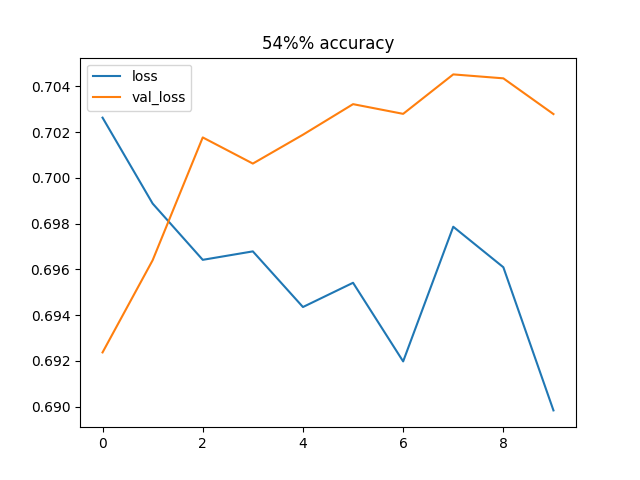
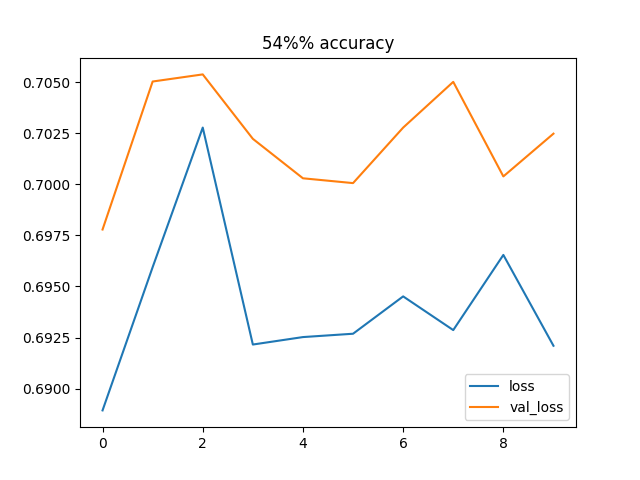
adding some stuff

diff --git a/src/utils.py b/src/utils.py
@@ -3,14 +3,27 @@ import numpy as np
 from typing import Tuple
 import keras
 from sklearn.preprocessing import StandardScaler
+from tensorflow.keras.callbacks import ModelCheckpoint, EarlyStopping
+from sklearn.preprocessing import OneHotEncoder
+import numpy as np
+from sklearn.metrics import accuracy_score, f1_score
+from matplotlib import pyplot as plt
 
-def get_csv_path():
+
+def get_csv_path() -> str:
+
+    """This function gives me the csv path of the stock i want to analyze
+
+    Returns:
+        str: the path where the stock price csv is
+    """    
 
     return r"C:\Users\sofu0\PycharmProjects\Taiwan\DeepLearningStockPrediction\data\SIEMEND_stock_price.csv"
 
+    
 
-def create_window(data : pd.DataFrame, start: int, windowsize : int, labelling : str = "avg") -> Tuple: 
-    """this is a function that creates a single event given data, start point and windowsize_
+def create_window(data : pd.DataFrame, start: int, windowsize : int, labelling : str) -> Tuple: 
+    """this is a 0function that creates a single event given data, start point and windowsize_
 
     Args:
         data (pd.DataFrame): _description_
@@ -23,14 +36,14 @@ def create_window(data : pd.DataFrame, start: int, windowsize : int, labelling :
 
     data = data.to_numpy()
 
-    window = data[start:start + windowsize, 1:]
+    window = data[start:start + windowsize, :]
     
-    this_day_price = data[start + windowsize, 4]
-    next_day_price = data[start + windowsize + 1, 4]
+    this_day_price = data[start + windowsize, 0]
+    next_day_price = data[start + windowsize + 1, 0]
         
     # next_day_date = data[start + windowsize + 1, 1]
 
-    next_seven_days_price = np.mean(data[start + windowsize + 1 : start + windowsize + 8, 4])
+    next_seven_days_price = np.mean(data[start + windowsize + 1 : start + windowsize + 8, 0])
 
     if labelling == "next":
         label = this_day_price < next_day_price
@@ -38,15 +51,27 @@ def create_window(data : pd.DataFrame, start: int, windowsize : int, labelling :
     if labelling == "avg":
         #not implemented
         label = this_day_price < next_seven_days_price
+
+    #create derivative here inhere
+
+    price = window[:, 0].reshape(-1, 1)
+
+    # Compute the derivative
+    derivative = np.gradient(price, axis=0).reshape(-1, 1)
+    # print(derivative.shape)
+    # print(price.shape)
+
+    window = np.concatenate((price, derivative), axis=1)
+
         
-    #scale window
+    #scale window. This could be moved to another place in the code
     window_scaler = StandardScaler()  # Create a scaler for the window
     window = window_scaler.fit_transform(window)  # Scale the window
 
     return (window, label)
 
 
-def create_events(data : pd.DataFrame, windowsize = 7, step_size = 2, labelling='avg') -> Tuple:
+def create_events(data : pd.DataFrame, windowsize, step_size, labelling) -> Tuple:
     """this is a function that creates all the events
 
     Args:
@@ -71,17 +96,27 @@ def create_events(data : pd.DataFrame, windowsize = 7, step_size = 2, labelling=
     while last_day < n_days - windowsize:
 
 
-        event,  label = create_window(data, first_day, windowsize, labelling=labelling)
+        event1,  label1 = create_window(data, first_day, windowsize, labelling=labelling)
 
+        event2,  label2 = create_window(data, first_day, int(windowsize/2), labelling=labelling)        
+        event2 = np.repeat(event2, 2, axis=0)
 
-        events = np.concatenate((events, event.reshape(1, windowsize, 6)), axis=0)
+        event3,  label3 = create_window(data, first_day, int(windowsize/4), labelling=labelling)
+        event3 = np.repeat(event3, 4, axis=0)
+        # print(event1.shape)
 
-        labels.append(label)
+        all_events = np.concatenate((event1, event2, event3), axis=1)
+        # print(all_events.shape)
 
+        events = np.concatenate((events, all_events.reshape(1, windowsize, 6)), axis=0)
 
+        # events2 = np.concatenate((events, event2.reshape(1, windowsize, 2)), axis=0)
+        # events3 = np.concatenate((events, event1.reshape(1, windowsize, 2)), axis=0)
+        # print(events.shape)
+
+        labels.append(label1)
         first_day += step_size
         last_day += step_size
-
 
     return (events,np.array(labels))
 
@@ -91,6 +126,12 @@ def preprocessing_pipeline(windowsize, stepsize, labelling):
     data = pd.read_csv(get_csv_path())
 
     print(data.columns)
+
+    #remove features
+    data = data[["Close", "Volume"]]
+
+    print(data.columns)
+
 
     # print("here")
     all_events, labels = create_events(data, windowsize, step_size=stepsize, labelling=labelling)
@@ -113,110 +154,106 @@ def preprocessing_pipeline(windowsize, stepsize, labelling):
 
     return train_X, train_Y, test_X, test_Y
 
-# @title ##Load Utility for our seqeuence model
-from tensorflow.keras.callbacks import ModelCheckpoint, EarlyStopping
 
+from gru_keras import run_experiment, get_sequence_model
+import random
 
-from sklearn.preprocessing import OneHotEncoder
-import numpy as np
-    
-
-
-def get_sequence_model(dropout, MAX_SEQ_LENGTH, NUM_FEATURES, num_rnn_layers=2, num_rnn_units=32):
-
-
-
-  features_input = keras.Input((MAX_SEQ_LENGTH, NUM_FEATURES))
-  x = keras.layers.Dense(32, activation="relu")(features_input)
-
-  for i in range(num_rnn_layers - 1):
-    x = keras.layers.GRU(num_rnn_units, return_sequences=True)(x)
-    x = keras.layers.Dropout(dropout)(x)
-
-  x = keras.layers.GRU(num_rnn_units)(x)
-  x = keras.layers.Dropout(dropout)(x)
-
-  output = keras.layers.Dense(1, activation="sigmoid")(x)
-  rnn_model = keras.Model(features_input, output)
-
-  rnn_model.compile(loss="binary_crossentropy",
-    optimizer="adam",
-    metrics=["accuracy"])
-
-  return rnn_model
-
-def run_experiment(train_X, train_Y, EPOCHS, windowsize, NUM_FEATURES, dropout=0.4, early_stopping_patience=10, VALIDATION=0.25):
-
-    # checkpoint = keras.callbacks.ModelCheckpoint(filepath, save_weights_only=True,
-    #                              save_best_only=True, verbose=1)
-
-    early_stopping = EarlyStopping(monitor='val_loss', patience=early_stopping_patience)
-
-    seq_model = get_sequence_model(MAX_SEQ_LENGTH=windowsize, dropout = dropout, NUM_FEATURES=NUM_FEATURES)
-    history = seq_model.fit(train_X, train_Y,
-        validation_split=VALIDATION,
-        epochs=EPOCHS,
-        callbacks=[early_stopping])
-
-    return history, seq_model
-
-from sklearn.metrics import accuracy_score, f1_score
-from matplotlib import pyplot as plt
 def main():
     # print("yoo")
-    epochs = 10
-    dropout = 0.4
-    windowsize = 90
+    epochs = 20
+    dropout = 0.2
+    windowsize = 80
     stepsize = 3
     labelling = 'avg'
-    n_features = 1
+    n_features=6
+    threshold = 0.5
 
     #make preprocessing 
     train_X, train_Y, test_X, test_Y = preprocessing_pipeline(windowsize=windowsize, stepsize = stepsize, labelling = labelling)
 
-    
-    # print(test_Y.shape)
-    # print(test_X.shape)
-    # print(train_Y.shape)
+    # #okay lets try to make the derivative as well
     # print(train_X.shape)
 
-    print(np.bincount(train_Y))
+    # #keras training model
+    # history, sequence_model = run_experiment(train_X=train_X[:, :, :], train_Y=train_Y, EPOCHS=epochs, 
+    #                                          NUM_FEATURES=n_features, dropout=dropout, windowsize=windowsize, early_stopping_patience=10, VALIDATION=0.25)
+    # #predict
+    # probabilities = sequence_model.predict(test_X[:, :, :])
+    # pred_label = (probabilities >= threshold).astype(int).flatten().tolist()
 
-    print(np.bincount(test_Y))
+    # print("F1 : ", f1_score(test_Y, pred_label, average='macro'))
+    # print("Accuracy : ", accuracy_score(test_Y, pred_label))
 
-    print(train_X[:, :, 3:4].shape)
-
-
-    #train model
-    history, sequence_model = run_experiment(train_X=train_X[:, :, 3:4], train_Y=train_Y, EPOCHS=epochs, NUM_FEATURES=n_features, dropout=dropout, windowsize=windowsize, early_stopping_patience=10, VALIDATION=0.25)
-
-    #predict
-    probabilities = sequence_model.predict(test_X[:, :, 3:4])
-
-    threshold = 0.5
-    pred_label = (probabilities >= threshold).astype(int).flatten().tolist()
-
-
-    # pred_label = np.argmax(probabilities, axis=1)
-
-    for j in range(len(pred_label)):
-        print(pred_label[j], test_Y[j])
-
-
-
-    print("F1 : ", f1_score(test_Y, pred_label, average='macro'))
-    print("Accuracy : ", accuracy_score(test_Y, pred_label))
-
+    # plt.scatter(train_X[0, :, 0], train_X[0, :, 1])
+    # plt.savefig('figures/scatter.png', format='png')
     #examples
-    plt.plot([i for i in range(len(test_X[0]))],test_X[0][:, 3])
-    plt.savefig('figures/example_stock_plot.png', format='png')
 
-    plt.figure()
-    plt.title("54%% accuracy")
-    plt.plot([i for i in range(len(history.history["loss"]))], history.history["loss"], label='loss')
-    plt.plot([i for i in range(len(history.history["loss"]))], history.history["val_loss"], label='val_loss')
-    plt.legend()
-    plt.savefig('figures/loss.png', format='png')
+    #genenrates som pictures
+    random_ingegers = [random.randint(0, 90) for _ in range(3)]
+    print(train_X.shape)
+    print(train_Y.shape)
+    for ri in random_ingegers:
+        print(train_X[ri,:, 0].shape)
+        plt.figure()
+        plt.plot( [i for i in range(80)], train_X[ri, :, 0], label=train_Y[ri])
+        plt.legend()
+        plt.savefig('figures/figure' + str(ri) + '.png', format='png')
+
+
+
+
+    # plt.plot([i for i in range(len(test_X[0]))],test_X[0][:, 3])
+    # plt.savefig('figures/example_stock_plot.png', format='png')
+
+    # plt.figure()
+    # plt.title("54%% accuracy")
+    # plt.plot([i for i in range(len(history.history["loss"]))], history.history["loss"], label='loss')
+    # plt.plot([i for i in range(len(history.history["loss"]))], history.history["val_loss"], label='val_loss')
+    # plt.legend()
+    # plt.savefig('figures/loss.png', format='png')
+    
+    #pytorch training
+    # model = StockPriceGRU(n_features, hidden_size, output_size)
+
+    # criterion = nn.BCEWithLogitLoss()
+    # optimizer = optim.Adam(model.parameters(), lr=0.001)
+
+    # # Training loop
+    # num_epochs = 100
+    # for epoch in range(num_epochs):
+    #     model.train()
+    #     total_loss = 0.0
+        
+    #     for batch_inputs, batch_labels in train_dataloader:  # Iterate over training data
+    #         optimizer.zero_grad()
+    #         outputs = model(batch_inputs)
+    #         loss = criterion(outputs, batch_labels.float())  # Assuming batch_labels are FloatTensors
+    #         loss.backward()
+    #         optimizer.step()
+    #         total_loss += loss.item()
+        
+    #     # Calculate average training loss for the epoch
+    #     average_loss = total_loss / len(train_dataloader)
+        
+    #     # Validation loop (evaluate model on the validation set)
+    #     model.eval()
+    #     with torch.no_grad():
+    #         # Perform validation and calculate validation metrics
+            
+    #     # Print training and validation metrics for monitoring
+    #     print(f"Epoch [{epoch+1}/{num_epochs}] - Training Loss: {average_loss:.4f} - Validation Metrics: ...")
+
+    #     # Test the trained model on the test set and calculate test metrics
+    #     model.eval()
+    #     with torch.no_grad():
+    #         # Perform testing and calculate test metrics
+
+
+
+
+
+        
+
 
 
 

diff --git a/src/gru_keras.py b/src/gru_keras.py
@@ -1,0 +1,45 @@
+import keras
+from sklearn.preprocessing import StandardScaler
+from tensorflow.keras.callbacks import ModelCheckpoint, EarlyStopping
+from sklearn.preprocessing import OneHotEncoder
+import numpy as np
+
+
+def get_sequence_model(dropout, MAX_SEQ_LENGTH, NUM_FEATURES, num_rnn_layers=2, num_rnn_units=32):
+
+
+
+  features_input = keras.Input((MAX_SEQ_LENGTH, NUM_FEATURES))
+  x = keras.layers.Dense(32, activation="relu")(features_input)
+
+  for i in range(num_rnn_layers - 1):
+    x = keras.layers.GRU(num_rnn_units, return_sequences=True)(x)
+    x = keras.layers.Dropout(dropout)(x)
+
+  x = keras.layers.GRU(num_rnn_units)(x)
+  x = keras.layers.Dropout(dropout)(x)
+
+  output = keras.layers.Dense(1, activation="sigmoid")(x)
+  rnn_model = keras.Model(features_input, output)
+
+  rnn_model.compile(loss="binary_crossentropy",
+    optimizer="adam",
+    metrics=["accuracy"])
+
+  return rnn_model
+
+
+def run_experiment(train_X, train_Y, EPOCHS, windowsize, NUM_FEATURES, dropout=0.4, early_stopping_patience=10, VALIDATION=0.25):
+
+    # checkpoint = keras.callbacks.ModelCheckpoint(filepath, save_weights_only=True,
+    #                              save_best_only=True, verbose=1)
+
+    early_stopping = EarlyStopping(monitor='val_loss', patience=early_stopping_patience)
+
+    seq_model = get_sequence_model(MAX_SEQ_LENGTH=windowsize, dropout = dropout, NUM_FEATURES=NUM_FEATURES)
+    history = seq_model.fit(train_X, train_Y,
+        validation_split=VALIDATION,
+        epochs=EPOCHS,
+        callbacks=[early_stopping])
+
+    return history, seq_model

diff --git a/src/gru_torch.py b/src/gru_torch.py
@@ -1,0 +1,25 @@
+import torch
+import torch.nn as nn
+import torch.optim as optim
+
+
+class StockPriceGRU(nn.Module):
+    def __init__(self, input_size, hidden_size, output_size, num_layers=1):
+        super(StockPriceGRU, self).__init__()
+        
+        # Define GRU layer
+        self.gru = nn.GRU(input_size, hidden_size, num_layers=num_layers, batch_first=True)
+        
+        # Define fully connected output layer
+        self.fc = nn.Linear(hidden_size, output_size)
+    
+    def forward(self, x):
+        # Forward pass through GRU layer
+        out, _ = self.gru(x)
+        
+        # Get the output from the last time step
+        out = out[:, -1, :]  # Select the output from the last time step
+        
+        # Pass through the output layer
+        out = self.fc(out)
+        return out
